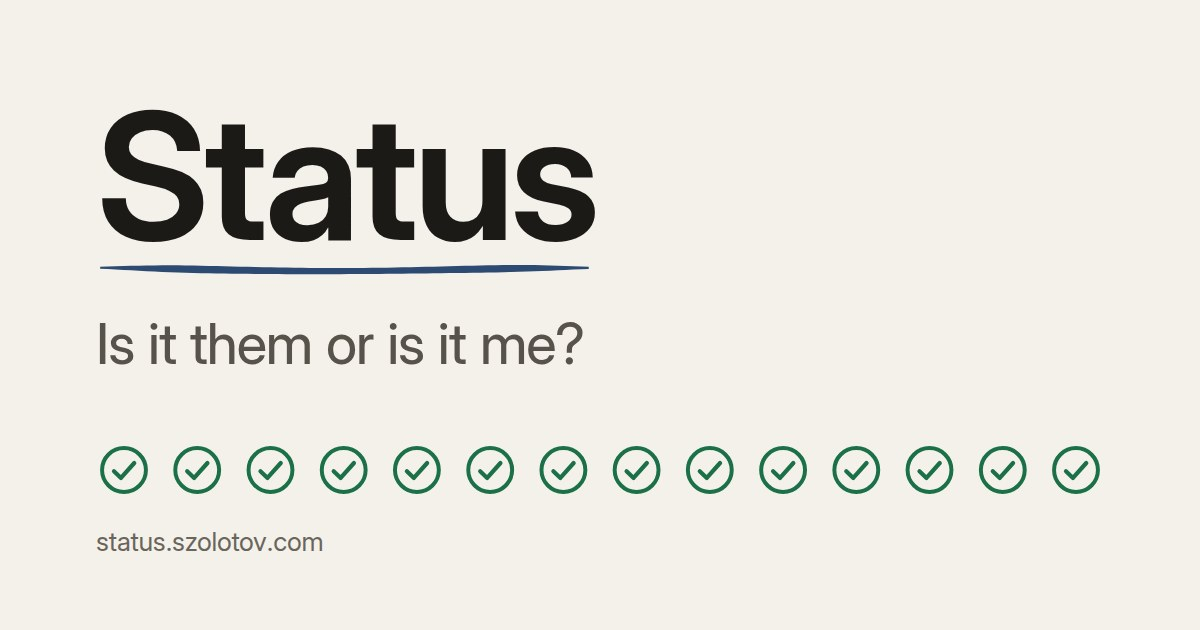
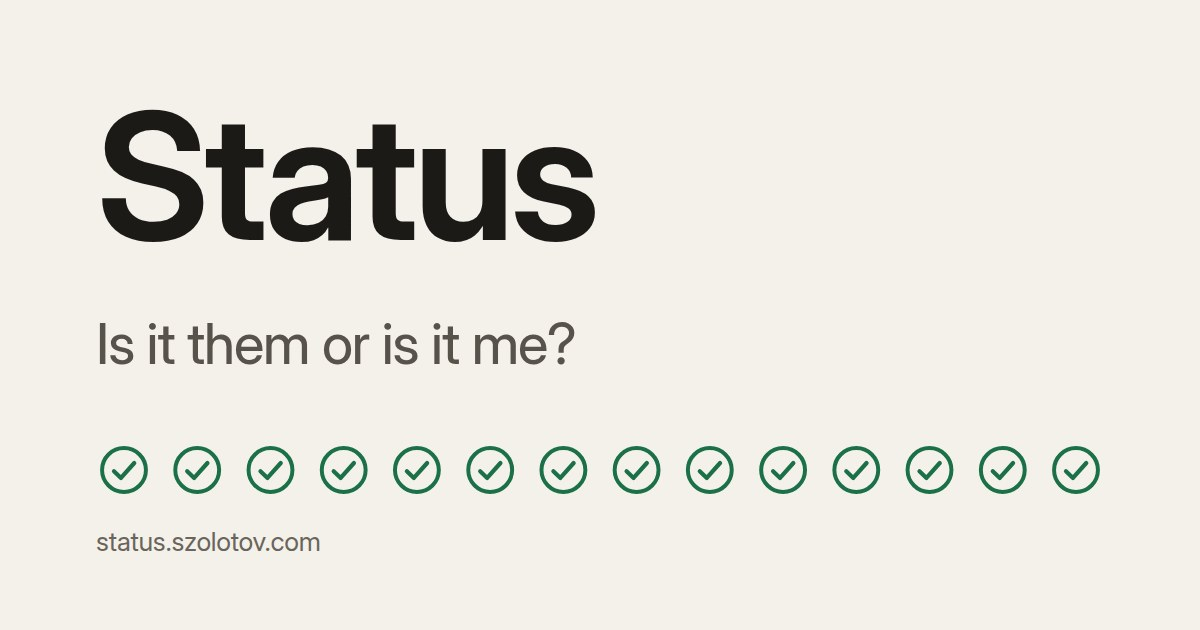
fix(meta): keep the hand off the link preview
The hand is for the count, an outage and "all quiet" only. The preview card drew a pen stroke under the wordmark, which marks nothing. Remove it from the card's source and from the script that set its path, and redraw og.jpg.

Changed region(s): [[0.1233, 0.5127, 0.4933, 0.6032], [0.0925, 0.4222, 0.4933, 0.4524], [0.1542, 0.8444, 0.2775, 0.8746]]

diff --git a/docs/og-image.html b/docs/og-image.html
@@ -3,9 +3,8 @@
   Source for public/og.jpg, the 1200x630 link-preview image.
   Paper, the name, one question, and the fourteen services as fourteen outline
   marks. No live status, so a preview never shows a stale outage. Colours, the
-  type and the mark come from src/styles.css and public/favicon.svg; the pen
-  underline is the page's own (scripts/icons.mjs sets its path from
-  src/components/status/pen-marks.ts).
+  type and the mark come from src/styles.css and public/favicon.svg. The pen is
+  not used here: the page keeps it for the count, an outage and "all quiet".
 
   Regenerate after changing the service list or the look:
     node scripts/icons.mjs
@@ -36,7 +35,6 @@
   body {
     font-family: var(--font);
     font-optical-sizing: auto;
-    font-variant-numeric: tabular-nums;
     color: var(--fg);
     background: var(--bg);
     padding: 88px 96px 72px;
@@ -44,22 +42,11 @@
     flex-direction: column;
   }
   h1 {
-    position: relative;
     align-self: flex-start;
     font-size: 176px;
     line-height: 176px;
     font-weight: 640;
     letter-spacing: -0.028em;
-  }
-  #pen {
-    position: absolute;
-    left: 0;
-    right: 0;
-    bottom: -18px;
-    width: 100%;
-    height: 30px;
-    overflow: visible;
-    color: var(--accent);
   }
   .question {
     margin-top: 48px;
@@ -80,7 +67,7 @@
       <path d="M7.7 12.5l3 2.9 5.7-6.4" fill="none" stroke="currentColor" stroke-width="1.8" stroke-linecap="round" stroke-linejoin="round"/>
     </symbol>
   </svg>
-  <h1>Status<svg id="pen" viewBox="0 0 240 12" preserveAspectRatio="none" aria-hidden="true"><path d="" fill="currentColor"/></svg></h1>
+  <h1>Status</h1>
   <p class="question">Is it them or is it me?</p>
   <svg class="marks" viewBox="0 0 1008 56" aria-hidden="true"><use href="#ok" x="0.0" width="56" height="56"/><use href="#ok" x="73.2" width="56" height="56"/><use href="#ok" x="146.5" width="56" height="56"/><use href="#ok" x="219.7" width="56" height="56"/><use href="#ok" x="292.9" width="56" height="56"/><use href="#ok" x="366.2" width="56" height="56"/><use href="#ok" x="439.4" width="56" height="56"/><use href="#ok" x="512.6" width="56" height="56"/><use href="#ok" x="585.8" width="56" height="56"/><use href="#ok" x="659.1" width="56" height="56"/><use href="#ok" x="732.3" width="56" height="56"/><use href="#ok" x="805.5" width="56" height="56"/><use href="#ok" x="878.8" width="56" height="56"/><use href="#ok" x="952.0" width="56" height="56"/></svg>
   <p class="site">status.szolotov.com</p>
